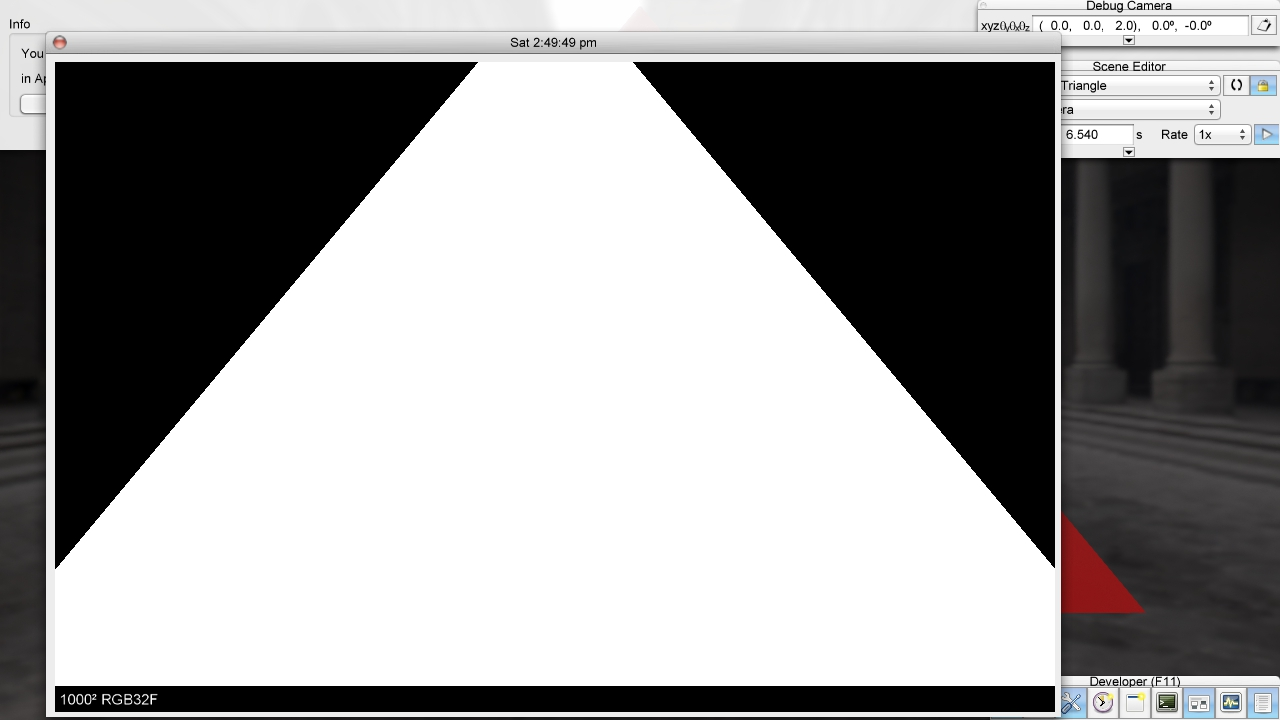
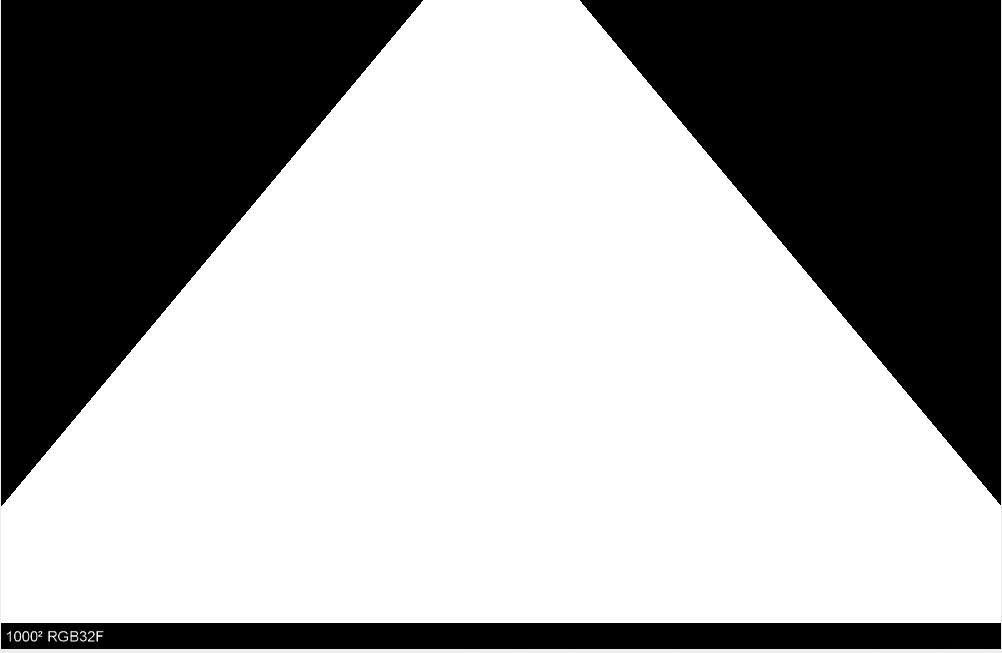
shading MVP

diff --git a/journal/journal.md.html b/journal/journal.md.html
@@ -16,10 +16,14 @@ Accomplished:
     Basic black/white Radiance example from Ray Casting in the Graphics codex using built in intersection functions. This gave us a better understanding of how the program will work. 
     Current plan: come in tomorrow with with clear function designs, implement them, and test. 
 
+2016-09-24 -> [16:00, 19:00], [20:00, 23:00]
+Accomplished: 
+    Triangle Intersection MVP, shading MVP. 
+
 2016-09-22: Algorithms
 =====================================================================
 Radiance: Lambert's cosine law: observable surface falls with the cosine of the measure of the angle, from the vertical. 
-    - Compute cosine compensation with **dot product**; $a \dot b = ||a|| ||b|| cos\teta$, where $\teta$ is the angle between a and b. The compensation factor for measuring away from the normal is given by Lambert's law (the dot product between the unit direction vector, and the normal). 
+    - Compute cosine compensation with **dot product**; $a \dot b = ||a||~||b|| cos\theta$, where $\theta$ is the angle between a and b. The compensation factor for measuring away from the normal is given by Lambert's law (the dot product between the unit direction vector, and the normal). 
 
 2016-09-22: Implementation
 =====================================================================

diff --git a/source/RayTracer.cpp b/source/RayTracer.cpp
@@ -34,8 +34,9 @@ void RayTracer::traceImage(const shared_ptr<Camera>& camera,/* const shared_ptr<
 shared_ptr<Surfel> RayTracer::traceOneRay(Point2int32 pixel, const Rect2D& plane, const shared_ptr<Camera>& camera, const shared_ptr<Image>& img) {
     Ray ray(camera->worldRay(pixel.x, pixel.y, plane));
     Array<shared_ptr<Light>> lights;
+    scene->getTypedEntityArray(lights);
 
-    img->set(pixel.x, pixel.y, L_o(intersects(ray), lights, -ray.direction()));
+    img->set(pixel.x, pixel.y, shade(intersects(ray), lights, -ray.direction()));
 
     return nullptr;
     //Trace a single ray from the center of the specified pixel
@@ -47,13 +48,15 @@ shared_ptr<Surfel> RayTracer::traceOneRay(Point2int32 pixel, const Rect2D& plane
 shared_ptr<Surfel> RayTracer::intersects(const Ray& ray/*, const TriTree& tris*/) const {
     TriTree::Hit hit;
     shared_ptr<UniversalSurfel> surfel(new UniversalSurfel);
+
     CPUVertexArray vertexArray(tris->vertexArray());
     Vector3 w(ray.direction());
-    Point3 P(ray.origin());
+    Point3 P(ray.origin()+epsilon*w);
+
     float t(0);
     float b[3];
     Point3 V[3];
-       //const Point3& V0(tri.position(vertexArray, 0));
+
     float d(inf());
     for (int i(0); i < tris->size(); ++i) {
         Tri tri(tris->operator[](i));
@@ -74,16 +77,17 @@ shared_ptr<Surfel> RayTracer::intersects(const Ray& ray/*, const TriTree& tris*/
         };
 
     };
-   
-    if(d < inf()){
+
+    if (d < inf()) {
         return tris->sample(hit);
-    } else {
+    }
+    else {
         return nullptr;
     };
 };
 
 bool RayTracer::intersectTriangle(const Point3& P, const Vector3& w, const Point3 V[3], float b[3], float& t) const {
-    const Vector3& e1(V[1] -V[0]);
+    const Vector3& e1(V[1] - V[0]);
     const Vector3& e2(V[2] - V[0]);
     const Vector3& n(e1.cross(e2).direction());
 
@@ -94,7 +98,7 @@ bool RayTracer::intersectTriangle(const Point3& P, const Vector3& w, const Point
         return nullptr;
     };
 
- 
+
     const Vector3& s((P - V[0]) / a);
 
     const Vector3& r(s.cross(e1));
@@ -144,15 +148,44 @@ shared_ptr<Surfel> RayTracer::intersectSphere(const Sphere& sphere, const Ray& r
     };
 };
 
-Radiance3 RayTracer::L_o(const shared_ptr<Surfel> surfel, const Array<shared_ptr<Light>>& lights, const Vector3& w_o) const {
+Radiance3 RayTracer::shade(const shared_ptr<Surfel>& surfel, const Array<shared_ptr<Light>>& lights, const Vector3& w_o) const {
     if (notNull(surfel)) {
-        return Radiance3(1, 1, 1);
+        Point3 X(surfel->position);
+        float compFactor(abs(w_o.dot(surfel->shadingNormal)));
+        Radiance3 L_e(surfel->emittedRadiance(w_o));
+        Radiance3 L_d(0,0,0);
+        Radiance3 L_s(0,0,0);
+
+        
+        for (int i(0); i < lights.size(); ++i) {
+            shared_ptr<Light> light(lights[i]);
+            L_d += L_o(surfel,X,light,w_o,compFactor,false)+ surfel->reflectivity(Random::threadCommon()) * 0.05f;
+            L_s += L_o(surfel,X,light,w_o,compFactor,true);
+        };
+        return L_e+L_d+L_s;
+    
+    }  else {
+        return Radiance3(0, 0, 0);
+    };
+};
+
+Radiance3 RayTracer::L_o(const shared_ptr<Surfel>& surfel, const Point3& X, const shared_ptr<Light>& light, const Vector3& w_o, const float compFactor, bool scatter) const {
+    Vector4 Y(light->position());
+    Vector3& w_i((Y.xyz() - X*Y.w).direction());
+   
+    if (isVisible(surfel, Y.xyz(),w_i)) {
+        if(scatter){
+            w_i = w_i.hemiRandom(surfel->shadingNormal, Random::threadCommon()).direction();
+        }
+        Radiance3 f(surfel->finiteScatteringDensity(w_i, w_o));
+        return (light->biradiance(X)*f*compFactor);
     }
     else {
         return Radiance3(0, 0, 0);
     };
 };
 
-bool RayTracer::isVisible(const shared_ptr<Surfel>& surfel, const TriTree& tris) const {
-    return false;
+bool RayTracer::isVisible(const shared_ptr<Surfel>& surfel, const Point3& Y, const Vector3& w_i) const {
+    Ray ray(Y,-w_i);
+    return (intersects(ray)!=surfel);
 };

diff --git a/source/RayTracer.h b/source/RayTracer.h
@@ -31,9 +31,11 @@ protected:
     //shared_ptr<Surfel> intersectTriangle(const CPUVertexArray& vertexArray, int triIndex, const Ray& ray) const;
     bool intersectTriangle(const Point3& P, const Vector3& w, const Point3 V[3], float b[3], float& t) const;
 
-    Radiance3 L_o(const shared_ptr<Surfel> surfel, const Array<shared_ptr<Light>>& lights, const Vector3& w_o) const;
+    Radiance3 RayTracer::shade(const shared_ptr<Surfel>& surfel, const Array<shared_ptr<Light>>& lights, const Vector3& w_o) const;
 
-    bool isVisible(const shared_ptr<Surfel>& surfel, const TriTree& tris) const;
+    Radiance3 L_o(const shared_ptr<Surfel>& surfel, const Point3& X, const shared_ptr<Light>& light, const Vector3& w_o, const float compFactor, bool scattered) const;
+
+    bool isVisible(const shared_ptr<Surfel>& surfel, const Point3& X, const Vector3& w_i) const;
 public:
     RayTracer(const shared_ptr<Scene>& scene, float e);
      /** Driver function to traceOneRay, traces a ray through

diff --git a/source/App.cpp b/source/App.cpp
@@ -87,12 +87,12 @@ void App::onInit() {
     developerWindow->cameraControlWindow->moveTo(Point2(developerWindow->cameraControlWindow->rect().x0(), 0));
     loadScene(
         //"G3D Sponza"
-        "G3D Triangle" // Load something simple
+        "G3D Cornell Box" // Load something simple
         //developerWindow->sceneEditorWindow->selectedSceneName()  // Load the first scene encountered 
         );
 
-    shared_ptr<RayTracer> rayTracer(new RayTracer(scene(), 0.001));
-    shared_ptr<Image> img(Image::create(1000,1000,ImageFormat::RGB32F()));
+    shared_ptr<RayTracer> rayTracer(new RayTracer(scene(), 0.01));
+    shared_ptr<Image> img(Image::create(640,400,ImageFormat::RGB32F()));
     rayTracer->traceImage(GApp::activeCamera(),img); 
     show(img);
 }
